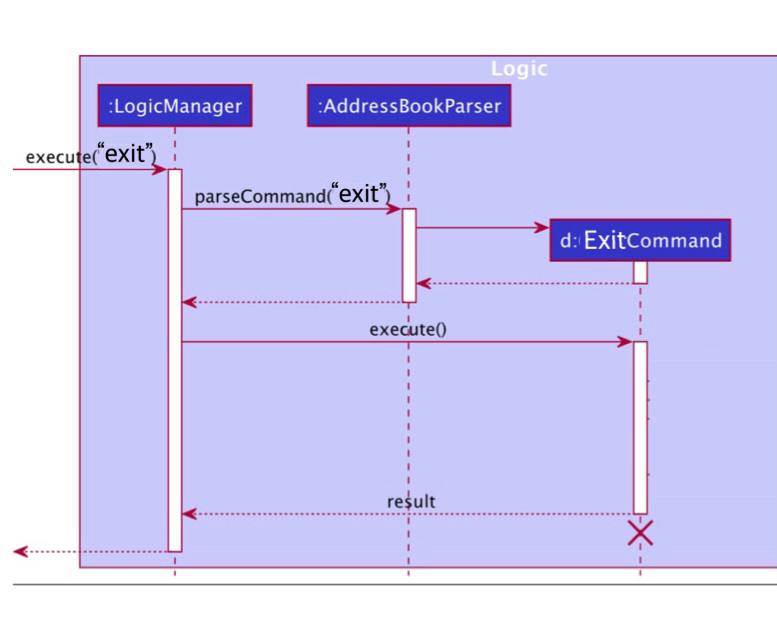
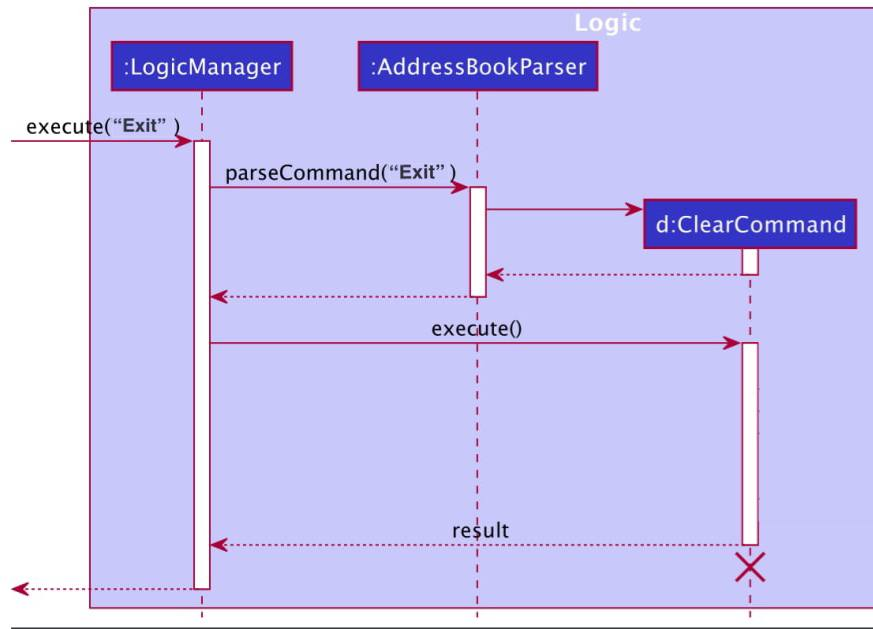
Update User Guide and Developer Guide - fix issues on Exit Feature sequence diagram and activity diagram - update User Guide on 'list' and 'help'

Changed region(s): [[0.0, 0.0, 1.0, 1.0]]

diff --git a/docs/UserGuide.md b/docs/UserGuide.md
@@ -149,12 +149,17 @@ List the full record, which displays all the student's data that are logged into
 
 Format: `list`
 
+This is a sample screenshot of what you can expect from the `help` command.
+
+![list](images/ListFeatureScreenShot.png)
+
 ### Viewing help: `help`
-The `help` command opens a pop-up window that includes a summary to briefly explain all the commands that Tracey offers.
+Help users to search for all the commands that Tracey offers by opening a pop-up window.
+It includes a summary to briefly explain all the commands.
 
 The pop-up window also offers a button to copy the URL of the User Guide for easy access to the User Guide. 
 
-This is a sample screenshot of what you can expect from the `help` command.
+This is a sample screenshot of what you can expect from the `list` command.
 
 ![help](images/HelpScreenshot.png)
 

diff --git a/docs/DeveloperGuide.md b/docs/DeveloperGuide.md
@@ -445,7 +445,7 @@ The user can choose when to exit the programme <br>
 The activity diagram shows the possible execution paths for the `exit` command.
 
 **Path Execution of Exit Feature Activity Diagram is shown below:**
-![ExitFeatureActivityDiagram](images/ExitFeatureActivityDiagram.png)
+![ExitFeatureActivityDiagram](images/ExitFeatureActivityDiagram.jpg)
 
 There is one possible execution path for this command.
 
